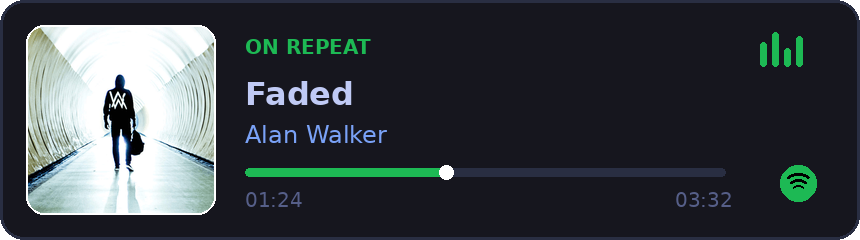
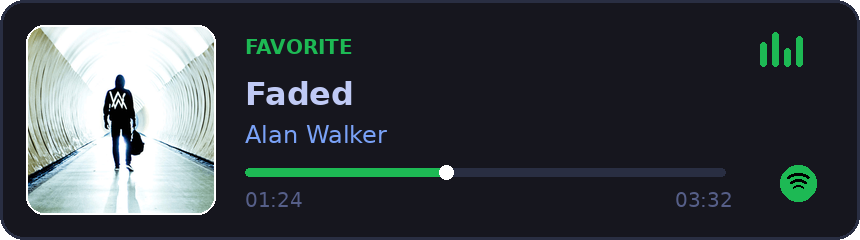
rename sections to stack, favorite and activity

Changed region(s): [[0.2721, 0.1458, 0.4233, 0.2333]]

diff --git a/README.md b/README.md
@@ -11,13 +11,13 @@ $ cat aboutme.json
 }
 ```
 
-### 🛠 Tech Stack
+### 🛠 stack
 
 <p align="left">
   <img src="https://skillicons.dev/icons?i=c,cpp,python,js,html,css,react,git,linux,bash" alt="My Tech Stack" />
 </p>
 
-### 🎵 On Repeat
+### 🎵 favorite
 
 <p align="left">
   <a href="https://open.spotify.com/track/7gHs73wELdeycvS48JfIos?si=f94fbbb53eb744af" target="_blank">
@@ -25,7 +25,7 @@ $ cat aboutme.json
   </a>
 </p>
 
-### 📊 Activity Graph
+### 📊 activity
 
 <p align="left">
   <img src="https://github-readme-activity-graph.vercel.app/graph?username=unxssh&theme=tokyo-night&hide_border=true&area=true" alt="Activity Graph" />
